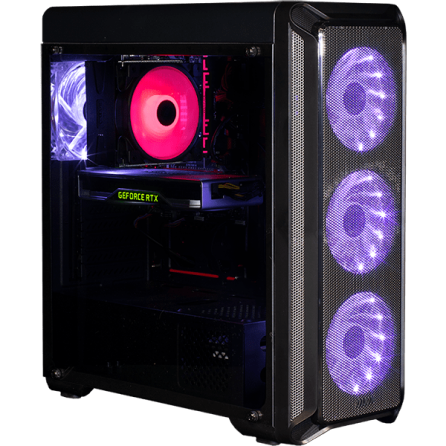
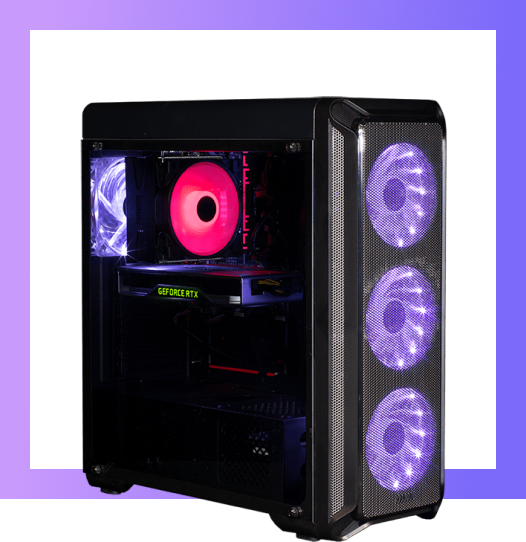
добавил секцию - work

diff --git a/index.html b/index.html
@@ -33,7 +33,7 @@
 
   <main class="main">
     <section class="main-display">
-      <div class="main-display-wrap container">
+      <div class="container">
         <h1 class="main-display-header">Собираем игровой ПК<br> под ваш бюджет</h1>
         <div class="timer main-display-timer">
           <div class="timer-item">
@@ -62,6 +62,28 @@
 
       <div class="main-display-background">
         <img src="img/header-img.jpg" alt="Изображение игрового ПК">
+      </div>
+
+    </section>
+
+    <section class="work">
+      <div class="container">
+        <div class="work-wrap">
+          <div class="work-img">
+            <img src="img/pc.png" width="526" height="542" alt="Изборажение компютера">
+          </div>
+
+          <div class="work-text">
+            <h2 class="work-header">Чем мы занимаемся</h2>
+            <p class="work-desc">
+              Помогаем сэкономить до 40% стоимости игрового компьютера без потери<br>
+              производительности. Подбираем мощные детали компьютера, заказываем у своих<br>
+              поставщиков или напрямую у производителей, чтобы сэкономить ваши деньги.<br>
+              Собираем мощный компьютер, на котором можно играть в любые современные<br>
+              игры и заниматься работой.
+            </p>
+          </div>
+        </div>
       </div>
 
     </section>

diff --git a/css/style.css b/css/style.css
@@ -122,6 +122,8 @@ h6 {
   line-height: 2.4rem;
 }
 
+/* header */
+
 .main-header {
   position: absolute;
   top: 0;
@@ -169,6 +171,8 @@ h6 {
   background-image: linear-gradient(94.26deg, #C89AFC 9.51%, #7C6AFA 90.23%);
 }
 
+/* section class="main-display" */
+
 .main-display-background {
   position: absolute;
   top: 0;
@@ -180,9 +184,10 @@ h6 {
   margin-top: 27rem;
 }
 
-.main-display-wrap {
+.main-display .container {
   position: relative;
   z-index: 10;
+  padding-bottom: 22.8rem;
 }
 
 .main-display-header {
@@ -228,5 +233,39 @@ h6 {
 }
 
 .timer-btn {
+  font-weight: 700;
+  line-height: 150%;
   background-image: linear-gradient(94.78deg, #DF5950 11.19%, #451046 93.72%);
+}
+
+/* section class="work" */
+
+.work {
+  padding-top: 20rem;
+  padding-bottom: 24.3rem;
+}
+
+.work-wrap {
+  display: flex;
+}
+
+.work-img {
+  width: 52.6rem;
+  height: 54.2rem;
+  margin-right: 13.4rem;
+}
+
+.work-text {
+  padding-top: 6.9rem;
+}
+
+.work-header {
+  font-weight: 700;
+  font-size: 4.8rem;
+  line-height: 140%;
+  margin-bottom: 4.5rem;
+}
+
+.work-desc {
+  line-height: 160%;
 }
